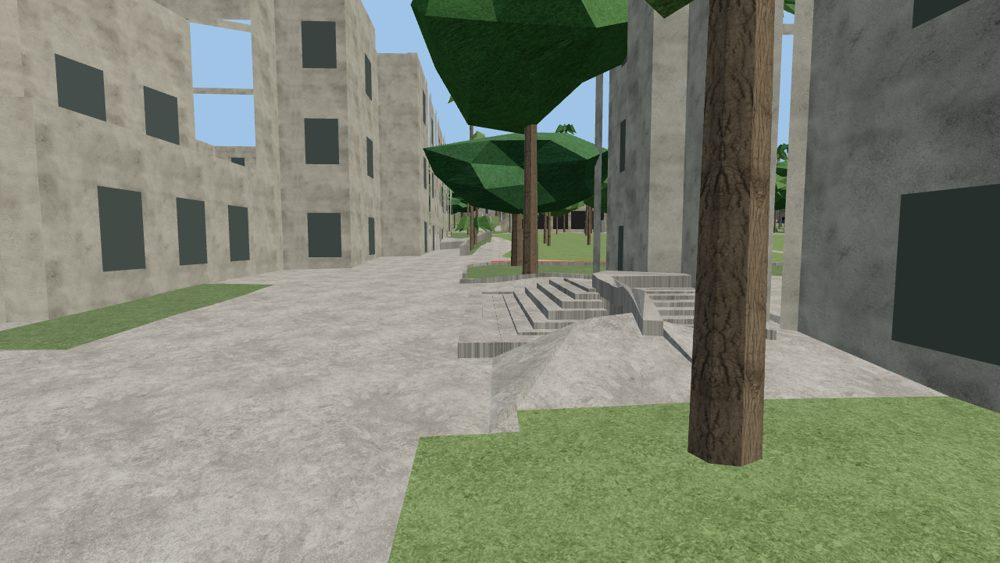
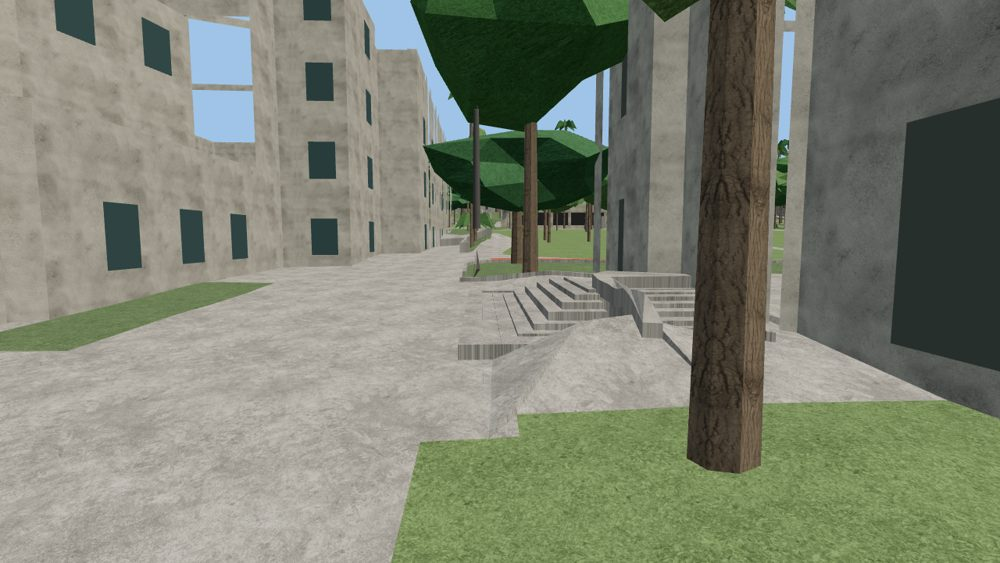
Refine the three route buildings from additional UH photos
Holmes Hall, Campus Center and the Architecture building now cite three
to five UH campus-map photos each, with corrected wall, trim and glass
colours. Drop the empty Commons photo list: Commons rate-limits this
session, which the docs now say.

Claude-Session: https://claude.ai/code/session_01JzWNojGkKViZUMsShh6QCm

diff --git a/docs/WORLD.md b/docs/WORLD.md
@@ -139,6 +139,10 @@ Pulling Google Street View panoramas and rebuilding the campus from them is not 
 
 The same technique works on imagery you are allowed to use: a 360° photo with known coordinates is projected onto the model to check and colour it. Sources that qualify are your own 360° or phone footage of the routes, and Mapillary (CC BY-SA, with coordinates) if it has coverage on campus.
 
+### Building photos
+
+UH's campus map serves several photos per building (`<number>_01.jpg`, `_02.jpg`, ...). Every style sheet cites the ones it was read from; Holmes Hall, Campus Center and the Architecture building use three to five each. Wikimedia Commons was also tried as a second source, but it rate-limits the cloud build session, so no Commons photos are used yet.
+
 ## Scenarios
 
 A scenario is a small file in `sites/<site>/scenarios/`:
